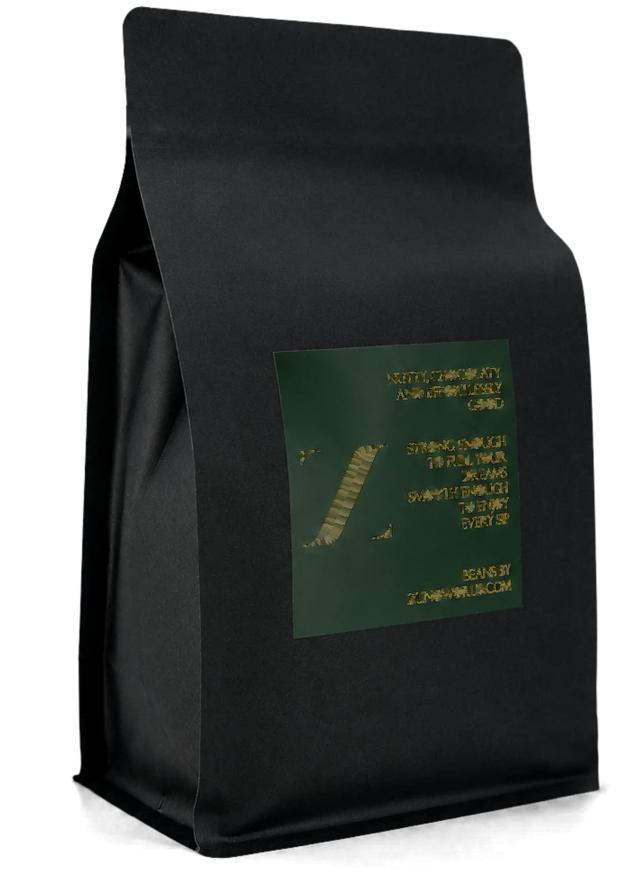
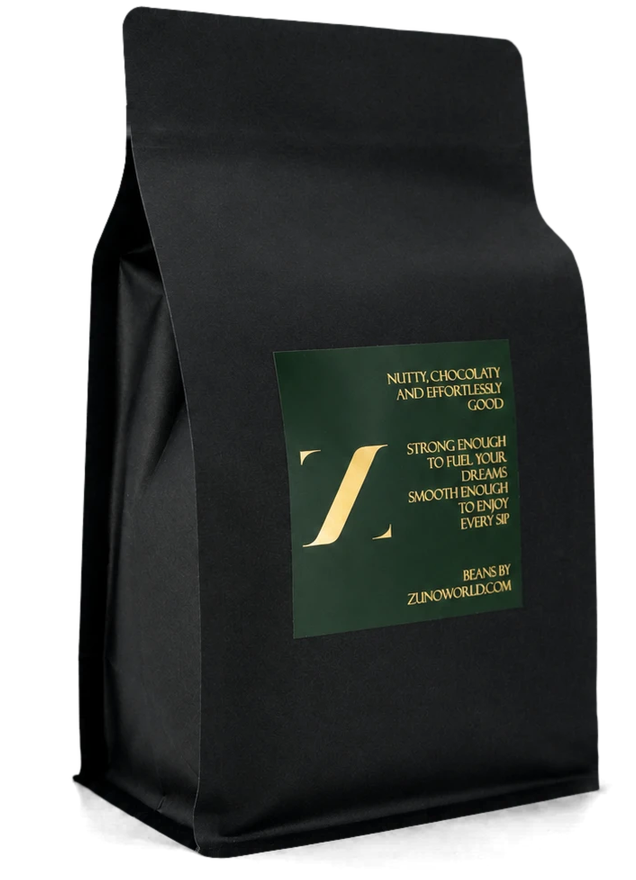
Stop the colour guard from erasing the gold foil on the label
The previous commit's cut-out was wrong and I should have looked at it before
committing rather than trusting the diagnostics. The gold Z and every line of
text on the back label came out smeared into a hatched blob.

Cause: the core-darkness guard added two commits ago conflated two questions
that need different masks.

  who keeps their own colour     -> must be everything inside the silhouette
  who may donate colour outward  -> must be only unambiguously dark subject

Collapsing them meant gold foil, which is bright, failed the darkness test and
was therefore overwritten with the colour of the nearest dark pixel. Measured
on this photograph: 6827 of 7111 gold pixels inside the bag, 96%, were
excluded from the mask and replaced.

Now `keep` is the eroded silhouette and `donor` is the dark subset of it. The
halo check also excludes `keep`, since an interior pixel is not contour and a
bright one there is the product, not a leak.

Gold pixels after the fix: 5777 on the back against 6259 on the front — the
same order, where before the label was destroyed.

The self-test still passes, and its core colour deviation improves from 2.67
to 1.54. Re-checked that it still fails on the old parameters, so it is still
guarding the white-crescent regression rather than having been loosened:
FAIL halo pixels 69.

Claude-Session: https://claude.ai/code/session_01XEPCM6QY5Ls8bNxseRHqGV

diff --git a/tools/cutout.py b/tools/cutout.py
@@ -25,10 +25,13 @@ and not:
    top fold are brighter than the modelled backdrop, so a plain luminance
    threshold punches holes straight through the bag.
 
-3. Contour colour is the nearest core pixel extended outward, NOT the
-   un-mixing formula F = (I - (1-a)B) / a. That formula is correct in theory
-   and unusable in practice: at small alpha it divides by almost nothing and
-   throws bright pixels into the edge, which reads as a halo.
+3. Contour colour is the nearest unambiguously-dark subject pixel extended
+   outward, NOT the un-mixing formula F = (I - (1-a)B) / a. That formula is
+   correct in theory and unusable in practice: at small alpha it divides by
+   almost nothing and throws bright pixels into the edge, which reads as a
+   halo. Note that "may donate colour outward" and "keeps its own colour" are
+   deliberately different masks — see cut_out(). Merging them erases the gold
+   foil on the label.
 """
 
 import argparse
@@ -47,7 +50,7 @@ ALPHA_LO, ALPHA_HI = 15.0, 110.0
 # shadow and let a stronger shadow into the silhouette, where it survived the
 # erosion and then supplied its bright colour to the whole contour.
 SILHOUETTE_FRAC = 0.45
-CORE_FRAC = 0.60           # colour may only be sampled from clearly-subject pixels
+CORE_FRAC = 0.60           # only this dark may DONATE colour outward; see cut_out()
 SHADOW_CAP = 0.45          # nothing outside the bag may become near-solid
 SPECK_MIN_PX = 2000        # smaller disconnected blobs are dirt, not shadow
 SHADOW_RGB = (1.0, 1.0, 1.2)
@@ -114,22 +117,25 @@ def cut_out(path):
     a = ndimage.gaussian_filter(a, 0.6)
     a[inner] = 1.0
 
-    # Colour may only be carried outward from pixels that are unambiguously
-    # subject. Erosion alone is not enough: a shadow that crept into the
-    # silhouette can survive it and then paint the whole contour its own
-    # backdrop-bright colour.
-    core = ndimage.binary_erosion(sil, np.ones((9, 9))) & (d > CORE_FRAC * subject_d)
-    core = largest_component(core)
-    idx = ndimage.distance_transform_edt(~core, return_distances=False, return_indices=True)
-    rgb = np.where(core[..., None], I, I[idx[0], idx[1]])
+    # Two different questions, which must not share one mask:
+    #   who keeps their own colour  -> everything inside the silhouette, so
+    #     gold foil and specular highlights survive intact;
+    #   who may donate colour outward -> only unambiguously dark subject, so a
+    #     shadow that crept into the silhouette cannot paint the contour with
+    #     its backdrop-bright colour.
+    # Collapsing these into one mask erases every bright detail on the label.
+    keep = ndimage.binary_erosion(sil, np.ones((9, 9)))
+    donor = largest_component(keep & (d > CORE_FRAC * subject_d))
+    idx = ndimage.distance_transform_edt(~donor, return_distances=False, return_indices=True)
+    rgb = np.where(keep[..., None], I, I[idx[0], idx[1]])
     rgb[outside & (a > 0)] = np.array(SHADOW_RGB, np.float32)
 
     bg_p99 = float(np.percentile(
         d[~ndimage.binary_dilation(sil, np.ones((31, 31)))], 99))
-    # A halo is contour colour brighter than anything the core could have
+    # A halo is contour colour brighter than anything a donor could have
     # supplied, which is the signature of backdrop leaking into the edge.
-    ceiling = float(np.percentile(I[core].mean(1), 99)) + 20
-    edge = (a > 0.05) & (a < 0.95)
+    ceiling = float(np.percentile(I[donor].mean(1), 99)) + 20
+    edge = (a > 0.05) & (a < 0.95) & ~keep
     halo = int((edge & (rgb.mean(2) > ceiling)).sum())
     print(f"  subject darkness {subject_d:.1f} (silhouette at {sil_thresh:.0f})"
           f"  |  background residual p99 {bg_p99:.1f}"
